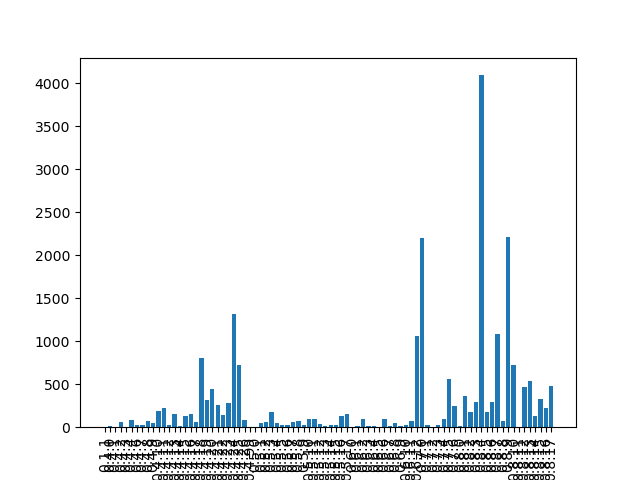
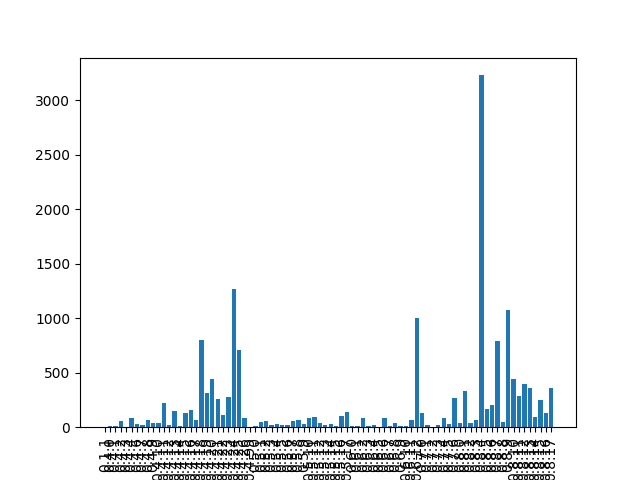
update version plot

diff --git a/script/plot_version.py b/script/plot_version.py
@@ -4,10 +4,35 @@ from collections import OrderedDict
 import semver
 from functools import cmp_to_key
 
-dist = {'0.4.13': 148, '0.4.4': 86, '0.6.12': 1056, '0.8.4': 4093, '0.4.25': 724, '0.8.9': 2216, '0.7.5': 566, '0.8.12': 470, '0.8.11': 384, '0.8.0': 6763, '0.8.6': 297, '0.4.19': 319, '0.7.6': 247, '0.4.20': 445, '0.4.23': 279, '0.7.0': 2195, '0.4.24': 1320, '0.8.17': 478, '0.8.13': 538, '0.5.0': 511, '0.5.4': 46, '0.6.11': 67, '0.6.2': 98, '0.8.5': 176, '0.4.21': 262, '0.8.10': 728, '0.8.3': 294, '0.6.0': 629, '0.8.15': 332, '0.4.22': 137, '0.4.16': 159, '0.4.18': 806, '0.8.16': 228, '0.5.8': 71, '0.8.2': 172, '0.8.7': 1088, '0.4.26': 89, '0.4.11': 225, '0.5.16': 126, '0.5.11': 95, '0.5.17': 148, '0.8.14': 132, '0.5.3': 176, '0.4.15': 136, '0.7.3': 28, '0.4.2': 59, '0.5.2': 55, '0.5.10': 95, '0.6.6': 96, '0.5.0': 8, '0.8.8': 70, '0.4.7': 20, '0.7.4': 90, '0.8.1': 366, '0.4.8': 67, '0.4.10': 183, '0.6.3': 12, '0.6.9': 14, '0.6.8': 46, '0.4.17': 63, '0.5.14': 25, '0.5.7': 57, '0.5.12': 41, '0.7.1': 24, '0.5.1': 50, '0.4.0': 99, '0.6.4': 17, '0.6.1': 10, '0.5.6': 25, '0.8.0': 17, '0.5.9': 29, '0.4.0': 13, '0.4.9': 44, '0.5.15': 26, '0.6.7': 9, '0.4.3': 3, '0.4.99': 5, '0.6.10': 24, '0.4.6': 25, '0.5.13': 19, '0.4.1': 8, '0.8.11': 2, '0.4.12': 21, '0.6.0': 8, '0.5.5': 20, '0.7.2': 6, '0.6.5': 2, '0.4.14': 12, '0.1.1': 3}
-# dist = {'0.4.13': 148, '0.4.4': 86, '0.6.12': 1056, '0.8.4': 4093, '0.4.25': 724, '0.8.9': 2216, '0.7.5': 566, '0.8.12': 470, '0.8.11': 384, '0.8.0': 6763, '0.8.6': 297, '0.4.19': 319, '0.7.6': 247, '0.4.20': 445, '0.4.23': 279, '0.7.0': 2195, '0.4.24': 1320, '0.8.17': 478, '0.8.13': 538, '0.5.0': 511, '0.5.4': 46, '0.6.11': 67, '0.6.2': 98, '0.8.5': 176, '0.4.21': 262, '0.8.10': 728, '0.8.3': 294, '0.6.0': 629, '0.8.15': 332, '0.4.22': 137, '0.4.16': 159, '0.4.18': 806, '0.8.16': 228, '0.5.8': 71, '0.8.2': 172, '0.8.7': 1088, '0.4.26': 89, '0.4.11': 225, '0.5.16': 126, '0.5.11': 95, '0.5.17': 148, '0.8.14': 132, '0.5.3': 176, '0.4.15': 136, '0.7.3': 28, '0.4.2': 59, '0.5.2': 55, '0.5.10': 95, '0.6.6': 96, '0.5': 8, '0.8.8': 70, '0.4.7': 20, '0.7.4': 90, '0.8.1': 366, '0.4.8': 67, '0.4.10': 183, '0.6.3': 12, '0.6.9': 14, '0.6.8': 46, '0.4.17': 63, '0.5.14': 25, '0.5.7': 57, '0.5.12': 41, '0.7.1': 24, '0.5.1': 50, '0.4.0': 99, '0.6.4': 17, '0.6.1': 10, '0.5.6': 25, '0.8': 17, '0.5.9': 29, '0.4': 13, '0.4.9': 44, '0.5.15': 26, '0.6.7': 9, '0.4.3': 3, '0.4.99': 5, '0.6.10': 24, '0.4.6': 25, '0.5.13': 19, '0.4.1': 8, '0.8.11.0': 2, '0.4.12': 21, '0.6': 8, '0.5.5': 20, '0.7.2': 6, '0.6.5': 2, '0.4.14': 12, '0.1.1': 3}
-# dist = {'0.4.13': 148, '0.4.4': 86, '0.6.12': 1056, '0.8.4': 4078, '0.4.25': 714, '0.8.9': 1544, '0.7.5': 566, '0.8.12': 467, '0.8.11': 381, '0.8.0': 6660, '0.8.6': 296, '0.4.19': 318, '0.7.6': 247, '0.4.20': 445, '0.4.23': 271, '0.4.24': 1299, '0.8.17': 466, '0.8.13': 526, '0.5.0': 487, '0.5.4': 45, '0.6.11': 67, '0.6.2': 91, '0.8.5': 176, '0.4.21': 246, '0.8.10': 645, '0.8.3': 294, '0.6.0': 325, '0.8.15': 329, '0.4.16': 158, '0.7.0': 456, '0.4.18': 805, '0.8.16': 228, '0.5.8': 71, '0.8.2': 171, '0.8.7': 1084, '0.4.26': 88, '0.4.11': 225, '0.5.16': 121, '0.5.11': 93, '0.5.17': 145, '0.8.14': 132, '0.5.3': 176, '0.4.15': 136, '0.7.3': 28, '0.4.2': 59, '0.5.2': 55, '0.5.10': 95, '0.6.6': 95, '0.5': 8, '0.8.8': 69, '0.4.7': 20, '0.7.4': 90, '0.8.1': 366, '0.4.8': 67, '0.4.10': 183, '0.6.3': 12, '0.6.9': 14, '0.6.8': 46, '0.4.17': 63, '0.5.14': 25, '0.5.7': 57, '0.5.12': 39, '0.7.1': 24, '0.5.1': 50, '0.4.0': 97, '0.6.4': 17, '0.5.6': 24, '0.8': 16, '0.5.9': 29, '0.4.9': 44, '0.4.22': 55, '0.5.15': 26, '0.6.7': 9, '0.6.1': 8, '0.4.3': 3, '0.4.6': 25, '0.5.13': 19, '0.6.10': 19, '0.4.1': 5, '0.8.11.0': 2, '0.4.12': 21, '0.5.5': 20, '0.7.2': 6, '0.6.5': 2, '0.4.14': 12, '0.4': 1}
-# dist = {"0.8.17": 5811, "0.6.8": 3, "0.7.4": 5, "0.8.6": 59, "0.8.16": 31, "0.8.10": 51, "0.8.12": 35, "0.8.0": 24, "0.7.6": 257, "0.8.13": 69, "0.8.4": 71, "0.8.2": 19, "0.8.15": 42, "0.8.11": 61, "0.6.12": 62, "0.7.3": 6, "0.8.9": 105, "0.8.14": 29, "0.8.5": 13, "0.4.24": 2, "0.7.5": 4, "0.8.7": 99, "0.5.17": 17, "0.7.1": 3, "0.8.3": 7, "0.6.6": 5, "0.8.8": 6, "0.6.10": 3, "0.5.16": 3, "0.5.9": 3, "0.6.4": 4, "0.6.11": 9, "0.8.1": 3, "0.6.1": 1, "0.7.0": 3, "0.6.2": 1, "0.5.14": 1, "0.5.11": 2, "0.7.2": 1}
+
+# execução no total
+# dist = {'0.8.7': 1025, '0.8.0': 6402, '0.8.11': 369, '0.4.19': 315, '0.6.12': 1040, '0.8.15': 324, '0.4.17': 61, '0.6.8': 46, '0.5.16': 125, '0.5.0': 509, '0.4.16': 158, '0.8.13': 536, '0.8.4': 4071, '0.4.24': 1274, '0.4.11': 224, '0.8.10': 572, '0.8.17': 470, '0.8.12': 466, '0.8.9': 2183, '0.6.0': 627, '0.5.1': 49, '0.4.13': 148, '0.4.25': 713, '0.5.6': 25, '0.8.6': 295, '0.5.5': 20, '0.4.18': 800, '0.7.4': 90, '0.8.1': 365, '0.8.5': 170, '0.5.14': 25, '0.6.2': 98, '0.8.14': 132, '0.7.0': 290, '0.5.12': 41, '0.8.2': 170, '0.5.11': 94, '0.4.23': 274, '0.4.4': 85, '0.4.26': 82, '0.7.5': 28, '0.8.16': 190, '0.4.20': 438, '0.5.8': 70, '0.4.0': 98, '0.4.21': 262, '0.4.15': 131, '0.8.8': 70, '0.4.12': 21, '': 137, '0.6.3': 12, '0.4.22': 137, '0.4.8': 66, '0.5.10': 86, '0.7.6': 170, '0.6.10': 24, '0.8.3': 89, '0.6.11': 66, '0.4': 13, '0.5.17': 146, '0.5.7': 57, '0.5.2': 55, '0.5.13': 19, '0.6.7': 9, '0.4.10': 41, '0.8': 17, '0.7.3': 28, '0.6.4': 17, '0.6.6': 96, '0.4.2': 59, '0.5.15': 15, '0.6.9': 11, '0.5.4': 33, '0.4.9': 42, '0.5.3': 18, '0.4.7': 20, '0.1.1': 3, '0.7.1': 24, '0.5.9': 29, '0.4.14': 12, '0.6': 8, '0.6.1': 10, '0.8.08.12.0': 1, '0.5': 7, '0.4.99': 5, '0.4.6': 25, '0.8.11.0': 2, '0.6.5': 2, '0.7.2': 6, '0.4.3': 3, '0.4.1': 8, '0.8.00': 1}
+# no_version_counter 459
+# invalid_version_counter 1736
+# all_versions_counter 27700
+# total 29895
+
+# execução apenas com os copiados
+dist1 = {'0.8.7': 730, '0.8.0': 4368, '0.4.19': 316, '0.6.12': 946, '0.4.17': 63, '0.5.0': 487, '0.4.16': 160, '0.8.13': 304, '0.8.4': 3159, '0.8.11': 228, '0.4.24': 1269, '0.4.11': 224, '0.8.10': 395, '0.8.17': 257, '0.8.12': 359, '0.8.9': 972, '0.5.1': 49, '0.6.0': 529, '0.4.13': 148, '0.4.25': 710, '0.5.6': 24, '0.5.5': 20, '0.4.18': 800, '0.7.4': 79, '0.8.1': 332, '0.8.5': 155, '0.5.14': 24, '0.6.2': 83, '0.7.0': 129, '0.5.16': 97, '0.5.12': 41, '0.8.2': 19, '0.8.15': 212, '0.5.11': 93, '0.4.23': 274, '0.4.4': 85, '0.4.26': 81, '0.7.5': 22, '0.8.16': 113, '0.4.20': 438, '0.5.8': 70, '0.4.0': 98, '0.8.6': 147, '0.6.8': 40, '0.4.21': 260, '0.4.15': 130, '0.4.12': 21, '': 120, '0.6.3': 12, '0.4.22': 116, '0.4.8': 65, '0.5.10': 85, '0.7.6': 85, '0.8.3': 57, '0.6.11': 54, '0.4.0': 13, '0.5.17': 128, '0.8.8': 45, '0.5.7': 54, '0.5.2': 55, '0.5.13': 19, '0.6.7': 7, '0.4.10': 41, '0.8.0': 11, '0.8.14': 69, '0.6.4': 14, '0.6.6': 81, '0.7.3': 12, '0.4.2': 59, '0.5.15': 15, '0.6.9': 10, '0.5.4': 33, '0.4.9': 42, '0.5.3': 18, '0.4.7': 20, '0.1.1': 3, '0.5.9': 25, '0.4.14': 12, '0.6.0': 7, '0.6.1': 7, '0.6.10': 10, '0.5.0': 7, '0.4.99': 5, '0.4.6': 25, '0.7.1': 15, '0.7.2': 5, '0.4.3': 3, '0.4.1': 8, '0.6.5': 1}
+# no_version_counter 459
+# invalid_version_counter 730
+# all_versions_counter 21033
+# total 22222
+
+# resultado das versões do ff
+dist2 = {"0.8.18": 5279, "0.6.8": 3, "0.7.4": 5, "0.8.6": 59, "0.8.16": 21, "0.8.10": 48, "0.8.12": 35, "0.8.0": 24, "0.7.6": 181, "0.8.13": 60, "0.8.4": 70, "0.8.2": 18, "0.8.15": 39, "0.8.11": 61, "0.8.17": 104, "0.6.12": 59, "0.7.3": 6, "0.8.9": 103, "0.8.14": 29, "0.4.24": 2, "0.7.5": 4, "0.8.7": 63, "0.8.5": 8, "0.5.17": 16, "0.7.1": 3, "0.8.3": 7, "0.6.6": 5, "0.8.8": 6, "0.6.10": 3, "0.5.16": 3, "0.5.9": 3, "0.6.4": 4, "0.6.11": 8, "0.8.1": 3, "0.6.1": 1, "0.7.0": 3, "0.6.2": 1, "0.5.14": 1, "0.5.11": 2, "0.7.2": 1}
+# total 6351
+
+# merge the 2 dicts
+dist = {}
+for key in dist1:
+    if not key:
+        continue
+
+    if key in dist2:
+        dist[key] = dist1[key] + dist2[key]
+    else:
+        dist[key] = dist1[key]
 
 # order by version according to semver
 dist = OrderedDict(sorted(dist.items(), key=lambda t: semver.VersionInfo.parse(t[0])))
